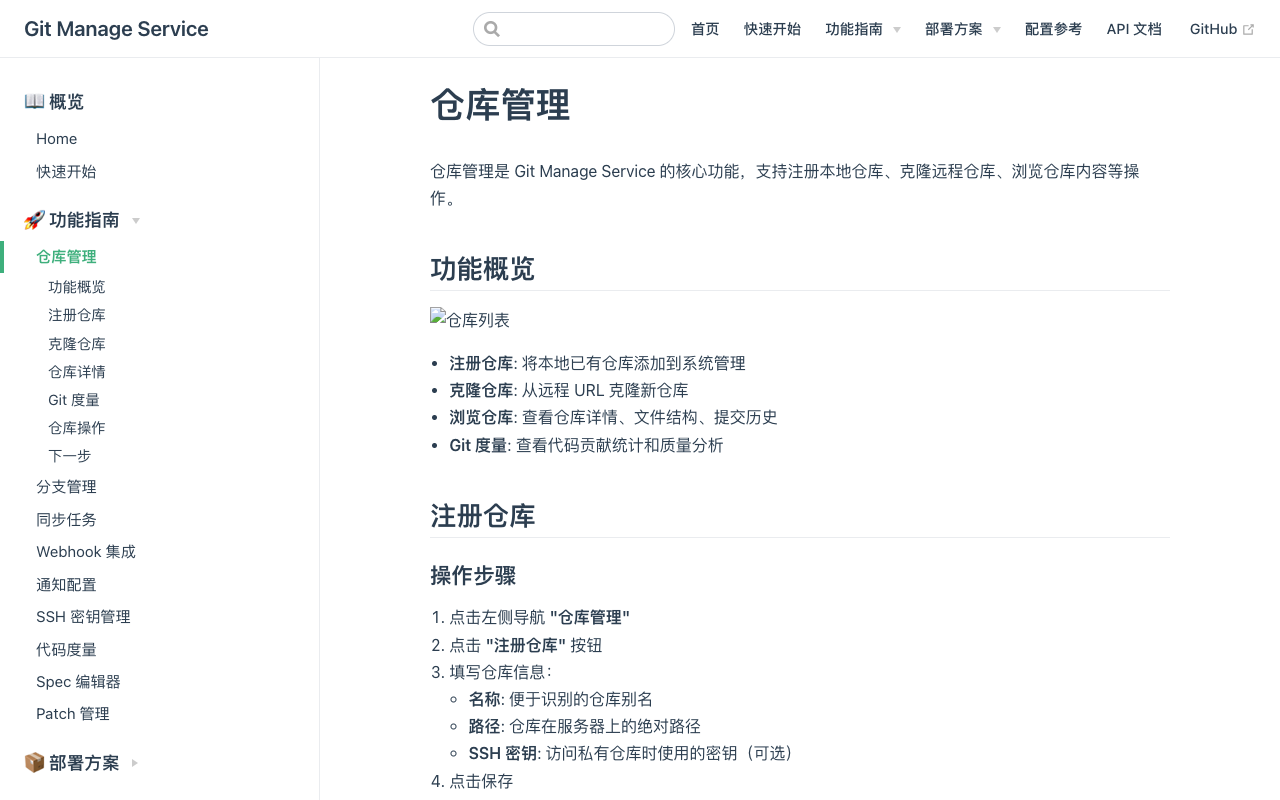
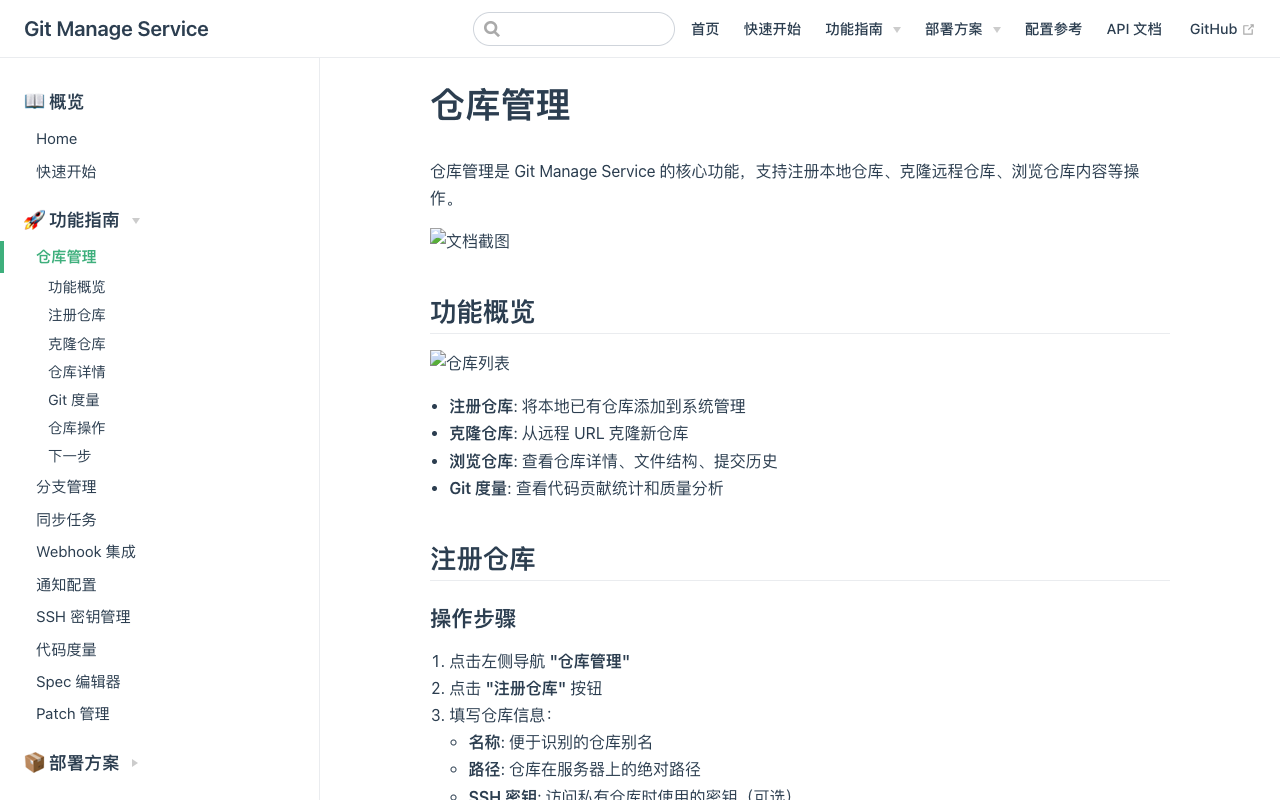
docs: 添加 Spec 编辑器和 Patch 管理文档截图
- 新增 docs-spec-editor.png
- 新增 docs-patch-manager.png
- 更新相关文档引入截图

Changed region(s): [[0.3125, 0.4375, 0.625, 1.0], [0.3125, 0.2812, 0.4375, 0.4062]]

diff --git a/docs/features/spec-editor.md b/docs/features/spec-editor.md
@@ -1,5 +1,7 @@
 # Spec 编辑器
 
+![文档截图](/images/docs/docs-spec-editor.png)
+
 ## 概述
 
 Spec 编辑器是 Git Manage Service 提供的专业 RPM Spec 文件编辑工具，集成 Monaco Editor 和实时语法检查功能，帮助开发者高效编写和管理 RPM 打包规范文件。

diff --git a/docs/features/patch-manager.md b/docs/features/patch-manager.md
@@ -1,5 +1,7 @@
 # Patch 管理
 
+![文档截图](/images/docs/docs-patch-manager.png)
+
 ## 概述
 
 Patch 管理功能帮助开发者生成、管理和应用 Git Patch 文件，支持批量操作和自动化工作流。
